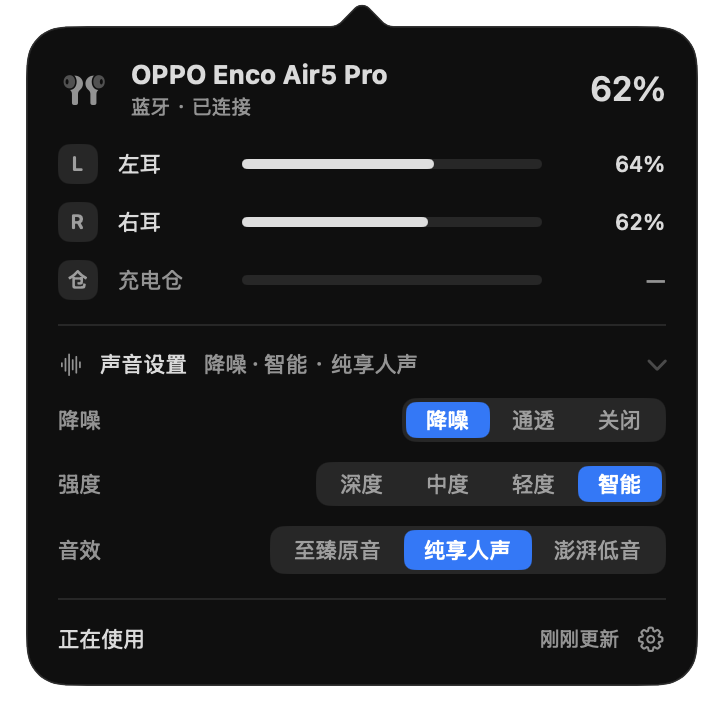
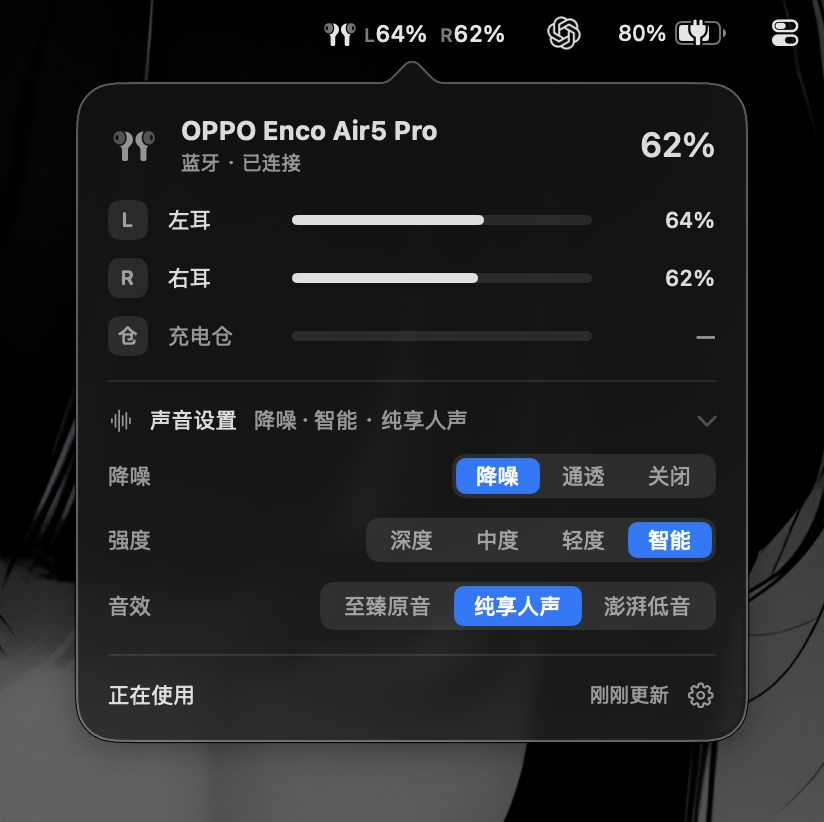
docs(readme): 更新居中的浅色和深色实屏截图

diff --git a/README.md b/README.md
@@ -6,13 +6,11 @@
 
 ## 截图
 
-| 电量概览 | 声音设置 | 设置窗口 |
+| 场景 | 浅色 | 深色 |
 | --- | --- | --- |
-| ![浅色电量概览](assets/battery-overview-light.png) | ![浅色声音设置](assets/sound-controls-light.png) | ![浅色设置窗口](assets/settings-window-light.png) |
-
-| 深色声音设置 | 深色设置窗口 |
-| --- | --- |
-| <img src="assets/sound-controls-dark.png" alt="深色声音设置" width="300"> | <img src="assets/settings-window-dark.png" alt="深色设置窗口" width="300"> |
+| 电量概览 | ![浅色电量概览](assets/battery-overview-light.png) | ![深色电量概览](assets/battery-overview-dark.png) |
+| 声音设置 | ![浅色声音设置](assets/sound-controls-light.png) | ![深色声音设置](assets/sound-controls-dark.png) |
+| 设置窗口 | ![浅色设置窗口](assets/settings-window-light.png) | ![深色设置窗口](assets/settings-window-dark.png) |
 
 ## 安装
 
